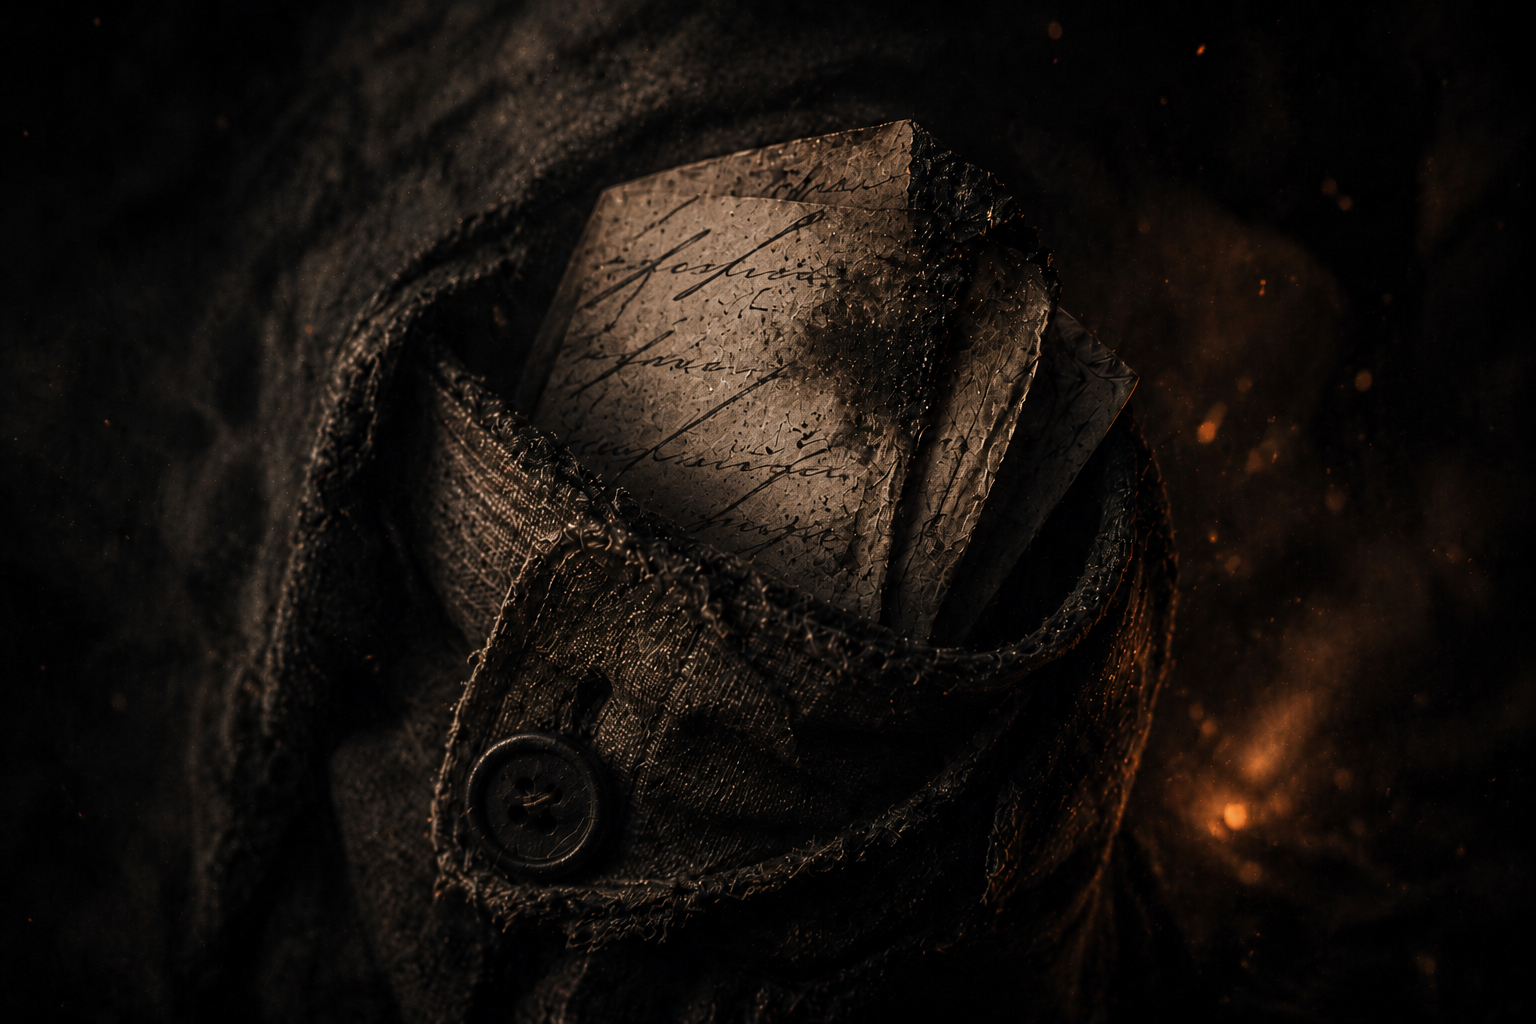
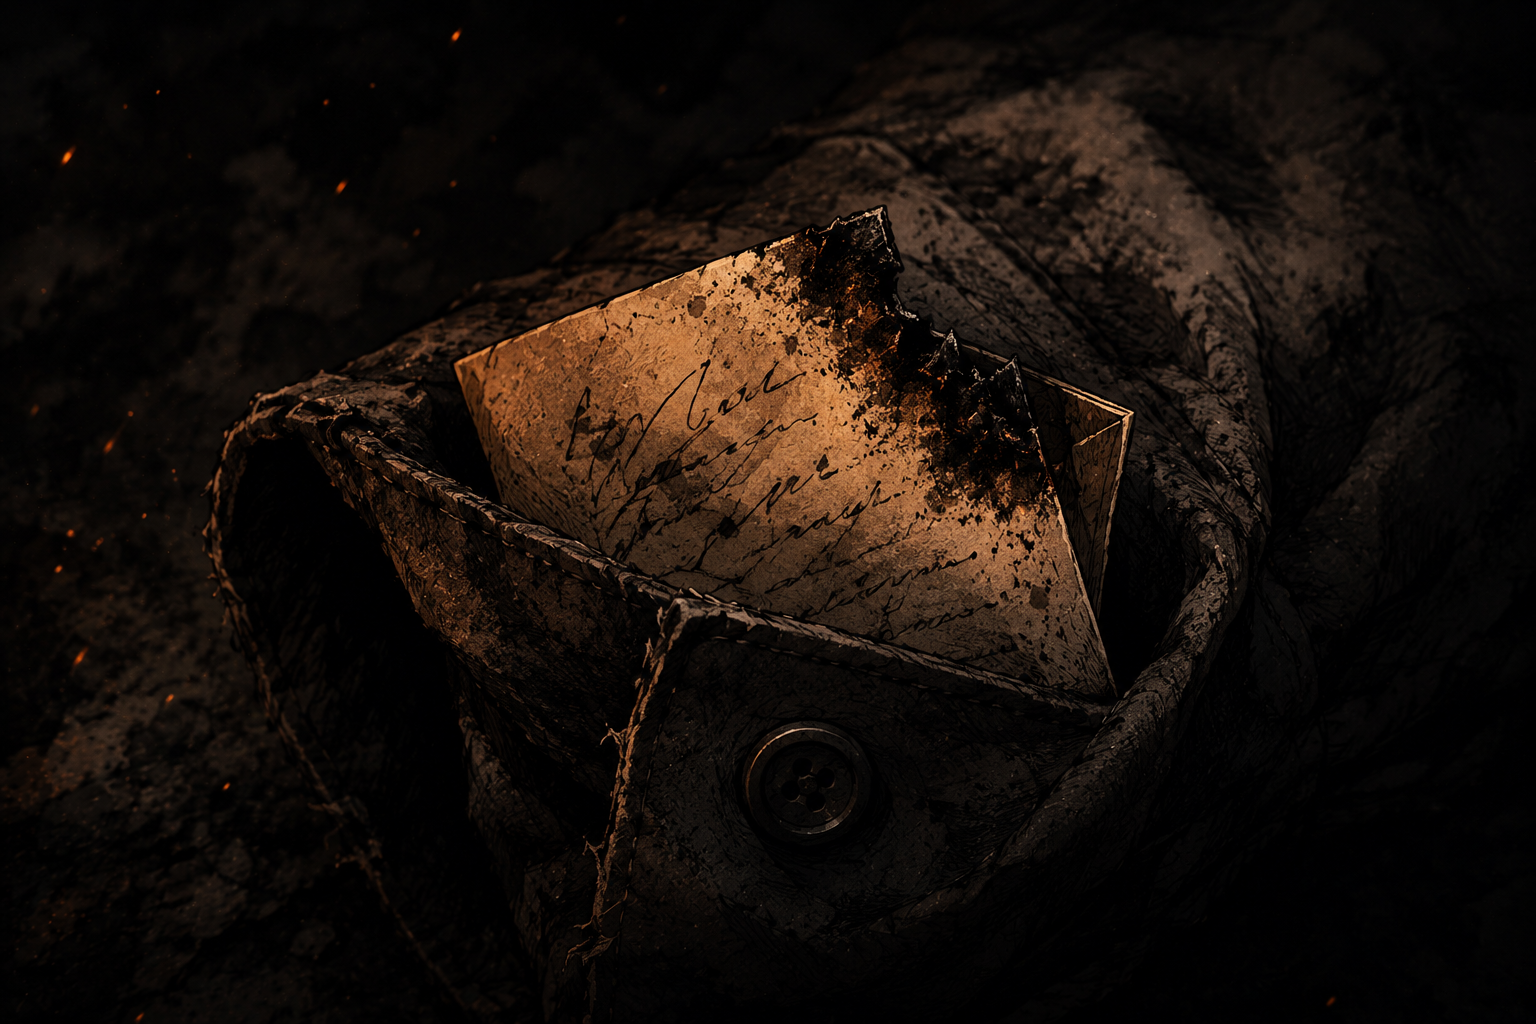
Regenerate prologue Panel 3 (note now visible)
New p3-note master: a folded paper note clearly tucked into the cuff (the
previous render read as a bare cuff). Regenerated p3-note.webp via
build-prologue-art.py (62.6 KB) and updated the alt text to match. Markings
stay illegible — canon-safe. Build passes.

diff --git a/src/data/prologue.ts b/src/data/prologue.ts
@@ -49,7 +49,7 @@ export const PROLOGUE_PANELS: readonly ProloguePanel[] = [
   {
     id: "the-note",
     art: "/prologue/p3-note.webp",
-    alt: "A close-up of a frayed, soot-darkened shirt cuff with a button, embers glowing in the dark beyond.",
+    alt: "A folded paper note tucked into a frayed, soot-darkened shirt cuff, lit warm against the dark, its markings illegible.",
     caption:
       "A note is tucked in your cuff, in a hand that punctuates like it means it:\n“You are awake. Try not to make this confusing — we are barely two paragraphs in.”",
     attribution: "— The Editor",
